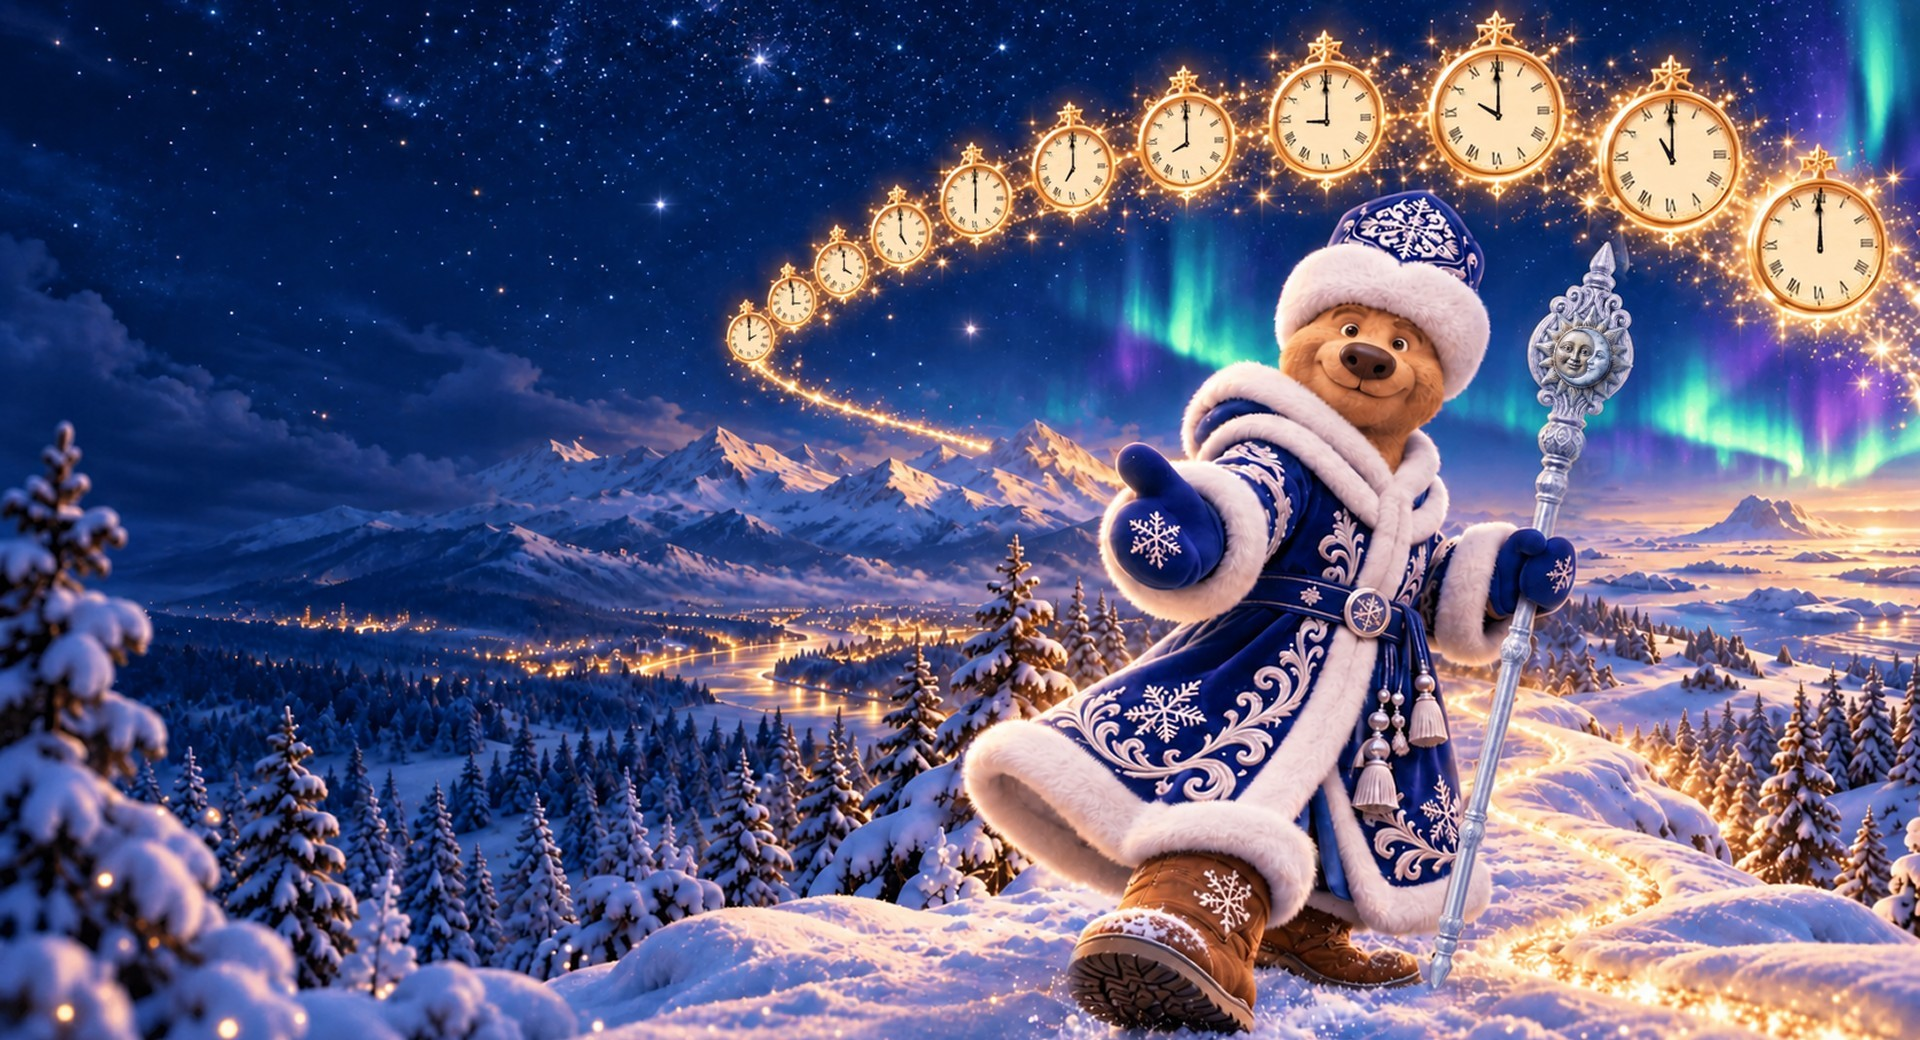
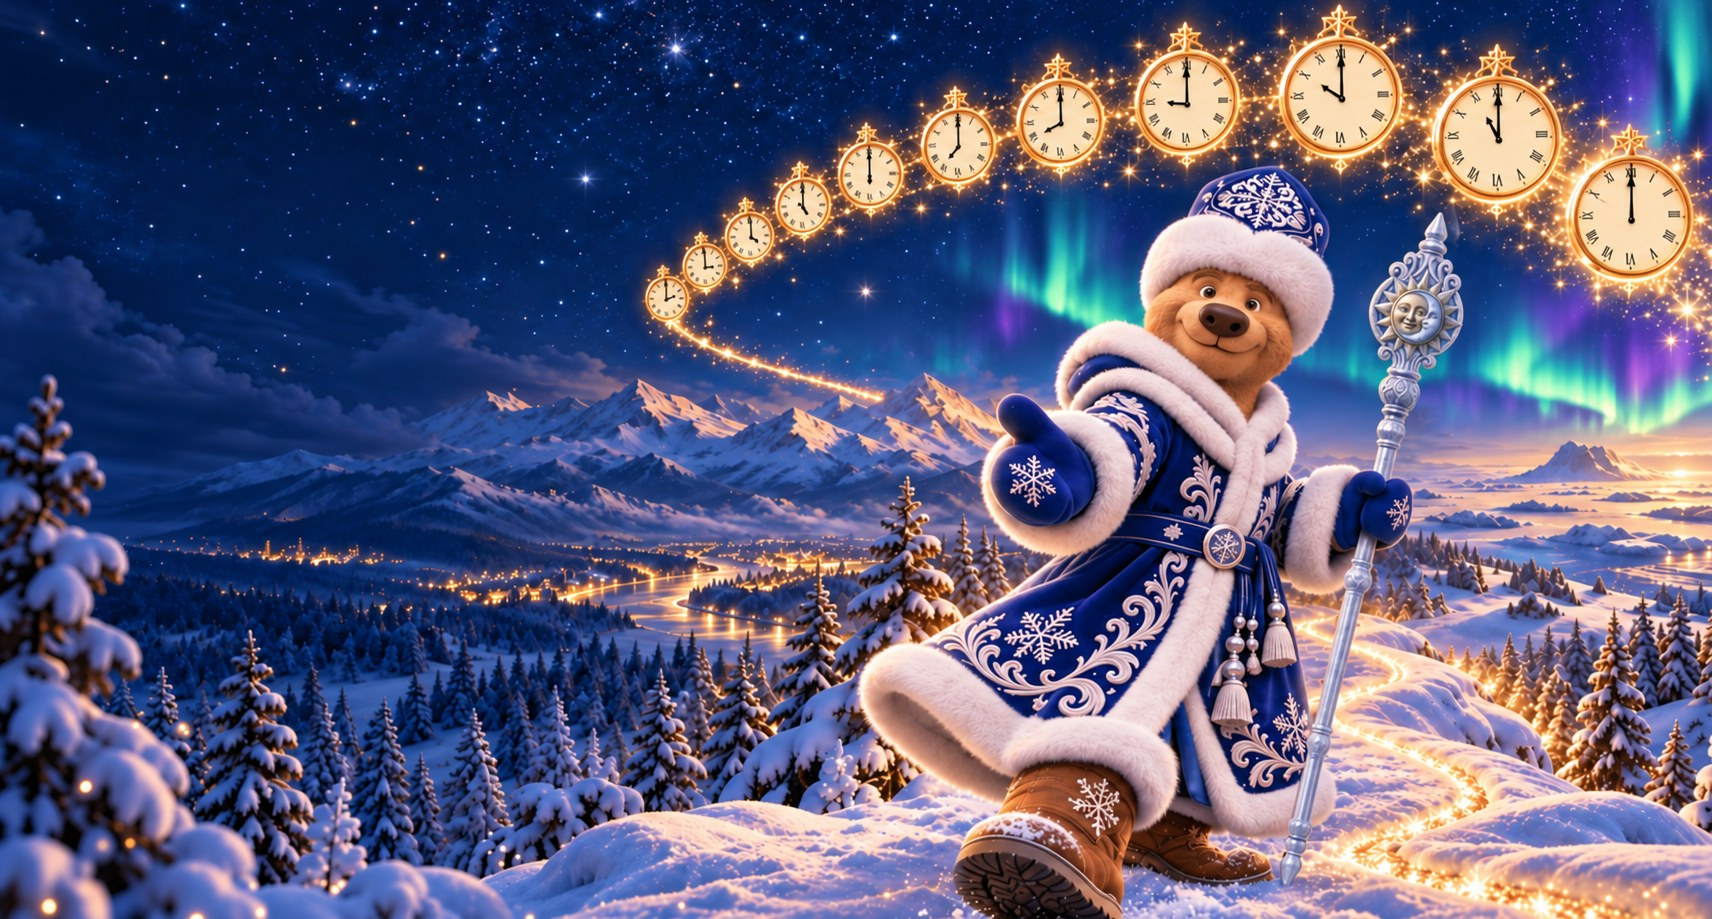
Новая картинка первого экрана
Claude-Session: https://claude.ai/code/session_0121wcKffRZ1ed5iQZNam7vk

diff --git a/index.html b/index.html
@@ -27,7 +27,7 @@
 <section class="hero">
   <picture class="hero-bg">
     <source srcset="assets/img/hero.webp" type="image/webp">
-    <img src="assets/img/hero.jpg" width="1920" height="1040" alt="Дед Мороз Михаил с посохом идет по заснеженной стране, в небе — цепочка часов">
+    <img src="assets/img/hero.jpg" width="1712" height="919" alt="Дед Мороз Михаил с посохом идет по заснеженной стране, в небе — цепочка часов">
   </picture>
   <div class="wrap hero-in">
     <img class="brand" src="assets/img/brand_psb.png" width="92" height="24" alt="ПСБ">
